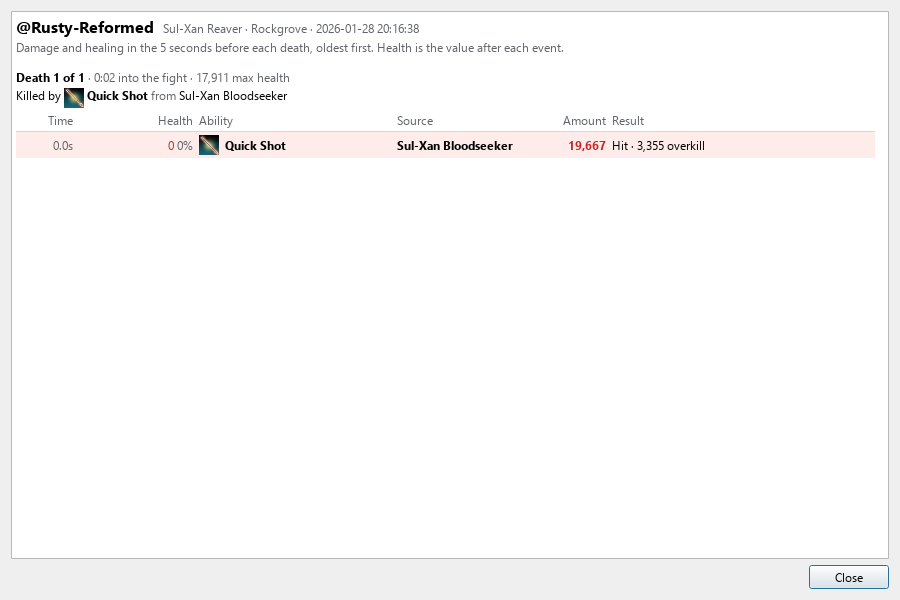
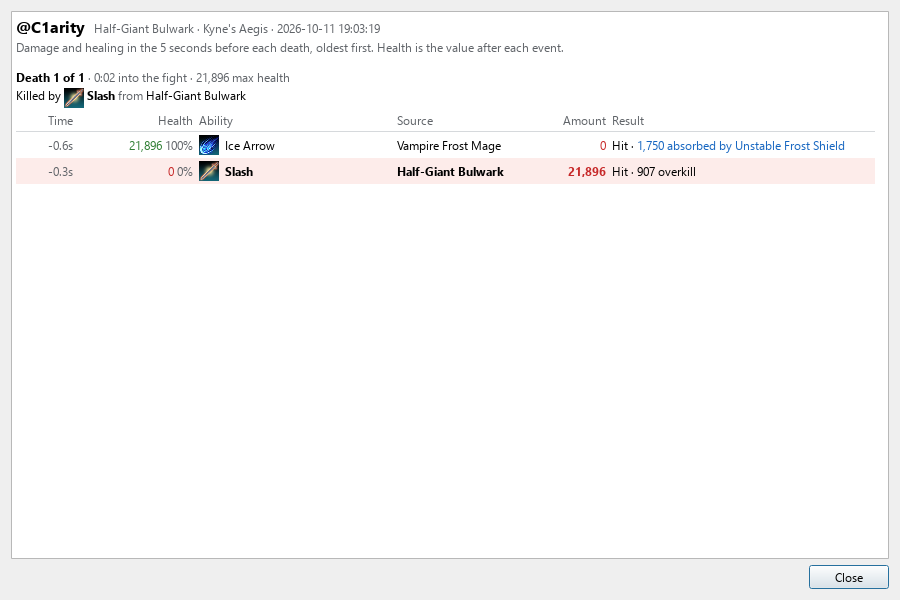
docs: critical review after #13, #21 and #27, and fresh screenshots
- README: a feature line for the damage window, DPS graph and dps time
  (#21); the tracked-effects line names expected rules and Z'en's count;
  the "DPS differs" entry no longer claims overkill as a difference
  (Combat Metrics drops it too) and names the real ones.
- User guide: the contents list gains A player's damage and DPS over
  time; the rules section documents `expected` and `dots`, the upgrade of
  saved rules and the new defaults; the strip section says when an empty
  0% row appears; the dps-time explanation is no longer repeated twice;
  the troubleshooting entry for DPS is corrected, and the Set#123 entry
  no longer promises the next release.
- Development guide: examples_dialog in the module table, effect_rules'
  description brought up to date.
- Screenshots regenerated over a Kyne's Aegis vet log with a Z'en wearer.

diff --git a/docs/user-guide.md b/docs/user-guide.md
@@ -5,6 +5,8 @@ A walk through the app, screen by screen, and the reference for every setting. T
 - [First run](#first-run)
 - [The main window](#the-main-window)
 - [A player's build](#a-players-build)
+- [A player's damage](#a-players-damage)
+- [DPS over time](#dps-over-time)
 - [Death recaps](#death-recaps)
 - [Tracked effects](#tracked-effects)
 - [The buff timeline](#the-buff-timeline)
@@ -37,14 +39,14 @@ The list on the left has one line per completed fight: `boss · duration · grou
 ### The fight
 
 - **Header**: boss or mob name, then duration, group DPS, zone, start time, and player deaths. In a fight with a boss the DPS reads `boss / total`: the damage dealt to the units the game flags as bosses, then all damage dealt. The duration is the fight time; when the group's dps time (first hit to last, what the DPS divides by) reads differently, it follows in brackets: `1:40 (dps time 1:32)`. Click the group DPS, or **DPS graph** on the toolbar, for the [dps over time graph](#dps-over-time).
-- **Buff timeline**: above the header, the [strip](#the-buff-timeline) with one row per effect across the fight, buffs above and debuffs below. A fresh install tracks how much of the fight Major Courage, Major Force, Major Slayer, Powerful Assault, Lucent Echoes and Pearlescent Ward were on anyone in the group; `Taunt:97%`, how long each boss had a taunt on it; six boss debuffs (Off-Balance, Touch of Z'en, Morag Tong, Minor Brittle, Major Brittle, Alkosh); and Crux, the mean and peak Crux you held. Every row is a [tracked-effect rule](#tracked-effects), on every fight whatever the group size. In a fight without a boss the boss rules measure the pack and say how many of its mobs they reached: `Alkosh:45% on 7 of 12 mobs`. **Copy fight** puts the same items on one text line.
+- **Buff timeline**: above the header, the [strip](#the-buff-timeline) with one row per effect across the fight, buffs above and debuffs below. A fresh install tracks how much of the fight Major Courage, Major Force, Major Slayer, Powerful Assault, Lucent Echoes and Pearlescent Ward were on anyone in the group; `Taunt:97%`, how long each boss had a taunt on it; six boss debuffs (Off-Balance, Touch of Z'en, Morag Tong, Minor Brittle, Major Brittle, Alkosh); and Crux, the mean and peak Crux you held. Each of these is a [tracked-effect rule](#tracked-effects) and has a row when its effect was up; the group buffs also show at `0%` in a group of five or more when nobody had them, and the taunt in any group. In a fight without a boss the boss rules measure the pack and say how many of its mobs they reached: `Alkosh:45% on 7 of 12 mobs`. **Copy fight** puts the same items on one text line.
 - **One row per player**, ranked by damage to the bosses and then by all damage (in a fight without a boss, by all damage):
   - the role letter, **T**ank, **H**ealer or **D**PS (see [Roles](#what-the-numbers-are-based-on));
   - the account name, with `*` after the player who dealt the fight's first damage;
   - the class. A build that borrows skill lines from another class shows those lines after a plus sign, `NB +Aedric +Grave`, read from the character's passives, so a line taken for its passives alone shows too. A pure-class build names its Class Mastery passives after a colon instead, `NB: An Eye for Exploitation, Above and Beyond`. A stock build shows just the class;
   - DPS and the share of the group's damage, each `boss / total` in a fight with a boss (against the units the game flags as bosses, then against everything), and max health, magicka and stamina with the largest pool in bold. Click a DPS figure for the player's [damage window](#a-players-damage); hover it for the time the figure divides by.
 
-DPS includes what a player's pets did: a Necromancer's Blastbones and Skeletal Archer, a Warden's bear, a Sorcerer's atronachs and familiar, a companion. Damage-over-time ticks count, as in Combat Metrics; see [Damage](#what-the-numbers-are-based-on). Each figure divides by its **dps time**, the time from the first of those hits to the last (a second at least) rather than the whole fight, which is also how Combat Metrics works: a player's DPS over the span of their own hits, their boss DPS over the span of their hits on the bosses, the group's over the span of the group's. The header shows the fight time and, when it reads differently, the group's dps time beside it: `1:40 (dps time 1:32)`.
+DPS includes what a player's pets did: a Necromancer's Blastbones and Skeletal Archer, a Warden's bear, a Sorcerer's atronachs and familiar, a companion. Damage-over-time ticks count, as in Combat Metrics; see [Damage](#what-the-numbers-are-based-on). Each figure divides by its **dps time**, the time from the first of those hits to the last (a second at least) rather than the whole fight, which is also how Combat Metrics works: a player's DPS over the span of their own hits, their boss DPS over the span of their hits on the bosses, the group's over the span of the group's.
 
 ### A player's row in detail
 
@@ -120,15 +122,15 @@ Heals that were pure overheal are left out. A death the game writes just after c
 Every row of the buff timeline is a rule in Settings → **Tracked effects**, one per line, the group buffs and the taunt included. The rules are plain text: copy them to a friend, or paste theirs in. A fresh install starts with these:
 
 ```
-Major Courage    = 109966 on group
-Major Force      = 61747 on group
-Major Slayer     = 93109 on group
-Powerful Assault = 61771 on group
-Lucent Echoes    = 220015 on group
-Pearlescent Ward = 172621 on group
-Taunt            = 38254 on boss each
+Major Courage    = 109966 on group expected large
+Major Force      = 61747 on group expected large
+Major Slayer     = 93109 on group expected large
+Powerful Assault = 61771 on group expected large
+Lucent Echoes    = 220015 on group expected large
+Pearlescent Ward = 172621 on group expected large
+Taunt            = 38254 on boss each expected small large
 Off-Balance   = 45902 62988 39077 34733 20806 130139 130145 130129 125750 62968 25256 34737 23808 137257 45834 137312 131562 on boss
-Touch of Z'en = 126597 on boss stacks
+Touch of Z'en = 126597 on boss dots
 Crux          = 184220 on self stacks
 Morag Tong    = 34384 on boss
 Minor Brittle = 145975 on boss
@@ -136,13 +138,17 @@ Major Brittle = 263825 on boss
 Alkosh        = 76667 on boss
 ```
 
-A rule is `Name = ability ids on <scope>`, then optionally `stacks` or `each`:
+A rule is `Name = ability ids on <scope>`, then optionally a measure (`stacks`, `each` or `dots`) and `expected <sizes>`, in any order:
 
-- **Ids**: a rule matches any of its ids, since an effect such as Off-Balance has one id per skill that applies it. They are the ids the game logs; an addon such as HyperTools or LuiExtended shows them. A rule for an id the log never writes reads 0%.
+- **Ids**: a rule matches any of its ids, since an effect such as Off-Balance has one id per skill that applies it. They are the ids the game logs; an addon such as HyperTools or LuiExtended shows them.
 - **Scope** says whose effects count: `self` is the player whose client writes the log, `group` any group member, `pets` a group member's pet, `boss` an enemy the game flags as a boss, `enemies` any hostile.
 - **Measure**: by default, the share of the fight the effect was on at least one unit of the scope, `Off-Balance:17%`. `stacks` gives the mean stack count while it was up and the peak, `Crux:2.1/3`. `each` measures every unit of the scope separately, over the time that unit was alive in the fight, and shows the mean. That is the taunt's measure: a fight with two bosses averages them, and a boss killed early is measured to its death.
+- **`dots`** is for Touch of Z'en, whose stacks the game never writes to the log: while a wearer's Z'en is on the boss, it counts that wearer's damage-over-time effects on it, at most five, and shows the mean and peak, `Touch of Z'en:4.3/5`. This is how Combat Metrics counts it. An effect counts when the log shows it ticking as damage over time, so Burning, Poisoned, bleeds and set DoTs count, a ground area such as Stampede does not, and 0 means Z'en was up with no bonus.
+- **When a rule shows**: a rule's row, and its item in the copied text, shows whenever its effect was up in the fight. `expected` makes it show at `0%` even when the effect never came, in the group sizes you name: `solo` (one player), `small` (two to four), `large` (five or more), or `all`; `expected` alone means all. The defaults expect the six group buffs in a large group and the taunt in small and large groups, so a missing Major Courage in a trial stands out, while a dungeon run is not a column of zeros. The boss debuffs show when someone applied them.
 - **Trash packs**: in a fight without a boss, a `boss` rule measures every hostile the group fought instead, and both it and an `enemies` rule say how many of the pack's mobs the effect reached: `Alkosh:45% on 7 of 12 mobs`. In a boss fight nothing changes.
-- **HyperTools**: a line that starts with `$` is a tracker exported from the [HyperTools](https://github.com/Hyperioxes/HyperTools) addon, pasted as is. Its name, ability ids and target become a rule; `stacks` or `on boss` after the string override it.
+- **HyperTools**: a line that starts with `$` is a tracker exported from the [HyperTools](https://github.com/Hyperioxes/HyperTools) addon, pasted as is. Its name, ability ids and target become a rule; `stacks`, `on boss` or `expected <sizes>` after the string apply to it.
+
+Rules saved by an earlier version are brought up to date once, when the app starts: the seven default group-buff and taunt lines get their `expected` words, and a `Touch of Z'en … stacks` line becomes `dots`. A line you renamed, or gave your own `expected`, is left as you wrote it.
 
 Delete the lines you do not want and rename the rest as you like (`MCourage` if you prefer the short form). The box tells you how many rules it holds and which lines it cannot read. **Examples…** opens a list of example rules, each with what it tells you and its line, the default rules first: tick the ones you want and **Add to rules** puts them under yours, or **Copy** puts the ticked lines on the clipboard to share. A rule you already have starts unticked.
 
@@ -154,9 +160,9 @@ Saving restarts monitoring, so new rules apply to the session's fights at once.
 
 A compact strip above each fight shows every tracked effect across the fight's length (see the [main window picture](#the-main-window)).
 
-- **Rows**: the strip's built-in rows, Major Slayer, Major Force, Major Courage, Major Berserk, Powerful Assault, Major Vulnerability and Taunt, then one row for each of your [tracked-effect rules](#tracked-effects) (a rule with the same name as a built-in row does not get a second one). Major Berserk and Major Vulnerability are built-in rows only; they are not in the copied text line. A row for an effect that never occurred is left out, and the strip disappears when there is nothing to show.
+- **Rows**: the strip's built-in rows, Major Slayer, Major Force, Major Courage, Major Berserk, Powerful Assault, Major Vulnerability and Taunt, then one row for each of your [tracked-effect rules](#tracked-effects) (a rule with the same name as a built-in row does not get a second one). Major Berserk and Major Vulnerability are built-in rows only; they are not in the copied text line. A rule whose effect never occurred has a row only when it is [expected](#tracked-effects) in a group of that size, an empty one reading `0%`; otherwise it is left out, and the strip disappears when there is nothing to show.
 - **Buffs above, debuffs below**: rows whose effect is on your side (`group`, `self`, `pets`) come first, then the rows on the enemy (`boss`, `enemies`, `mobs`), with a thin line between the two. Each side keeps the order its rows come in: built-in rows first, then your rules in the order you wrote them.
-- **Each row** is filled where the effect was up, with its uptime in the label and time ticks underneath. Beside the label a word says whose effect it is: `group`, `boss` for Major Vulnerability and the taunt, and each rule's scope (`self`, `pets`, `enemies`, or `mobs` for a boss rule measured on the pack of a fight without a boss). A stacking rule's bar rises and falls with the count. A group buff that reached only one or two people is dotted rather than solid.
+- **Each row** is filled where the effect was up, with its uptime in the label and time ticks underneath. Beside the label a word says whose effect it is: `group`, `boss` for Major Vulnerability and the taunt, and each rule's scope (`self`, `pets`, `enemies`, or `mobs` for a boss rule measured on the pack of a fight without a boss). A stacking rule's bar rises and falls with the count, and Touch of Z'en's against its five DoTs. A group buff that reached only one or two people is dotted rather than solid.
 - **Hover** a segment for who cast it and who received it at that moment. Hover a label for its full text when it is cut short.
 - **Click** a row, label or bar, for a summary of the whole fight: who applied the effect (each caster's uptime, how much of it no other caster covered, and how many spans), who had it (each receiver's uptime, and for a stacking rule its peak and the time at the peak), and, when there are only a few of each, a grid of caster against receiver. A click elsewhere or Esc closes it.
 
@@ -216,7 +222,7 @@ The [design notes](design.md), collected from the code itself, go into each of t
 - **Builds**: `PLAYER_INFO` events carry each player's slotted abilities, gear and long-term effects. The class skill lines are read from the class passives among those effects, with the slotted abilities filling in for a line whose passives a character has not learned; a build has at most three lines. The same table names the Class Mastery passives: from the passive list for a mastery whose effect is always on, and from the effect a proc mastery fires (the player being its source) for the others, kept for the rest of the session.
 - **Werewolf form**: the game writes only a player's two human bars, never the bar a werewolf fights with. The app tells a player is in werewolf form from the effects the game puts on them as they transform, and rebuilds their werewolf bar from the werewolf skills they cast in form; a Carnage counts as its Pounce, which it replaces at close range.
 - **Gear sets** are mapped through the [LibSets](https://github.com/Baertram/LibSets/tree/LibSets-reworked/LibSets) database. Each equipped item comes with its trait, quality and enchant. The log does not say how heavy an armor piece is or what a weapon is, so both are looked up by item id in tables from UESP's item database. A slotted poison is named the same way. Food is recognised by the buff list of the LibFoodDrinkBuff addon.
-- **Tracked effects**: every buff and debuff is an `EFFECT_CHANGED` line naming the ability, the caster, the target and the stack count. A rule's uptime is the union of its ids' spans over the units of its scope, and its stacks the highest count among them, averaged over the time it was up.
+- **Tracked effects**: every buff and debuff is an `EFFECT_CHANGED` line naming the ability, the caster, the target and the stack count. A rule's uptime is the union of its ids' spans over the units of its scope, and its stacks the highest count among them, averaged over the time it was up. The game never logs Touch of Z'en's stacks, so `dots` counts the wearer's effects that tick as damage over time, as Combat Metrics does. A rule shows when its effect was up, or when it is `expected` in the fight's group size, counted from the players in the fight.
 - **Scribed skills**: the log names a scribed skill's focus, signature and affix scripts on its `ABILITY_INFO` line, directly before the `PLAYER_INFO` of the player who uses it. That is how scripts are tied to players: the ability id alone covers several focus scripts of a grimoire, so two players with the same id can run different skills.
 - **Deaths**: player `DIED` events during the fight, and `KILLING_BLOW` events on a player, which is how the log records a player killed by another player. The recap comes from the `COMBAT_EVENT` lines that hit or healed that player in the 5 seconds before.
 - **Icons and links**: the log names each ability's icon file, and the app ships those icons extracted from the game. ESO-Hub links come from bundled maps of ESO-Hub's sitemaps; nothing is sent to ESO-Hub until you click.
@@ -238,8 +244,8 @@ The [design notes](design.md), collected from the code itself, go into each of t
 
 - **No fights appear**: logging is off in-game (see [First run](#first-run)); **Last entry** turns green while the log is being written. A fight appears only once combat ends.
 - **"Waiting for Encounter.log"**: logging has never been enabled, or the log lives somewhere unusual: point Settings → Encounter log at it.
-- **DPS differs from Combat Metrics or ESO Logs**: the app counts the same results Combat Metrics does, but leaves out overkill, and in a fight with a boss shows boss DPS first (`boss / total`). Compare like with like; see [Damage](#what-the-numbers-are-based-on). A fight the game split in two around a resurrection is one fight here.
-- **A set shows as `Set#123`**: the set is newer than the bundled set table; it will be named after the next release.
+- **DPS differs from Combat Metrics or ESO Logs**: a player's own figure counts the same hits over the same dps time as Combat Metrics, so it should agree. Check three things. In a fight with a boss, the first figure is boss DPS (`boss / total`). The group's DPS divides by the group's own first-to-last span, where Combat Metrics divides the group's damage by *your* dps time. And a fight the game split in two around a resurrection is one fight here. See [Damage](#what-the-numbers-are-based-on).
+- **A set shows as `Set#123`**: the set is newer than the bundled set table, so it has no name or link until the table is refreshed in a later release.
 - **An ability shows as text instead of an icon**: the icon is not in the bundled set; the name still links to ESO-Hub.
 - **A weapon's Type is a dash**: the weapon is from a set newer than the bundled weapon table.
 - **Archive was skipped**: ESO was running and had the log open. Close ESO and use **Archive now**, or let the next app start handle it.

diff --git a/README.md b/README.md
@@ -12,9 +12,10 @@ The **[user guide](https://github.com/brainsnorkel/eso-live-encounterlog-sets-ab
 - **Players ranked by boss damage, then all damage**, with role (Tank/Healer/DPS), class and borrowed skill lines or Class Mastery passives, boss DPS beside total DPS, damage share, and resource pools.
 - **Builds at a glance**: both ability bars as the game's own icons, scribed skills with their scripts (`Chilling Contingency (Lingering Torment / Intellect and Endurance)`), and every equipped gear set with piece counts.
 - **Full build per player**: click a name for gear slot by slot (set, type, quality, trait, enchant, slotted poison), both bars, mundus stone, food and Class Mastery passives.
+- **DPS the way Combat Metrics counts it**: each figure over its dps time (first hit to last); click a player's DPS for their damage by ability and by target, or the group's for a graph of everyone's dps across the fight.
 - **Death recaps**: a ☠ on the row of a player who died opens the last 5 seconds before each death: every hit and heal with its source, the health left after it, and whether it was blocked, dodged or absorbed by a shield.
 - **Buff and debuff timeline**: a strip across each fight, buffs above and debuffs below, one row per effect with its uptime. Hover for who cast what on whom; click a row for each caster's and receiver's share of the fight.
-- **Tracked effects you define**: the strip's rows are plain-text rules, `Off-Balance = 45902 62988 on boss`. They start with the group buffs, the taunt on the boss and six boss debuffs; edit them, add any effect the log carries, share the rules as text, paste HyperTools trackers, or pick from the Examples list. In a trash pack, boss rules measure the pack.
+- **Tracked effects you define**: the strip's rows are plain-text rules, `Off-Balance = 45902 62988 on boss`. They start with the group buffs, the taunt on the boss and six boss debuffs, Touch of Z'en's stacks among them, counted as Combat Metrics counts them. A rule shows when its effect was up, or at `0%` in the group sizes you say it is expected in, so a missing buff stands out in a trial without a dungeon run filling with zeros. Edit them, add any effect the log carries, share the rules as text, paste HyperTools trackers, or pick from the Examples list. In a trash pack, boss rules measure the pack.
 - **Taunts**: how long each boss had a taunt on it, and the abilities each player taunted with ringed on their bars.
 - **ESO-Hub links**: hover an ability icon for its name, click it for the skill's ESO-Hub page; set names open their set pages. Nothing is sent to ESO-Hub until you click.
 - **Search within a fight** (Ctrl+F), including ability icons by name; **copy any fight** as plain text for Discord; **review any log file** without interrupting live monitoring.
@@ -72,7 +73,7 @@ Then start ESO Log Tail, before or during play. The status bar's **Last entry** 
 - **SmartScreen warning on the installer**: the installer is not code-signed; choose *More info → Run anyway*.
 - **No fights appear**: make sure encounter logging is on in-game (**Last entry** turns green while the log is written). A fight appears once combat ends.
 - **"Waiting for Encounter.log"**: logging has never been enabled, or your log lives somewhere unusual: point Settings → Encounter log at it.
-- **DPS differs from Combat Metrics or ESO Logs**: the app counts the same results, leaves out overkill, and in a boss fight shows boss DPS first. See [what the numbers are based on](https://github.com/brainsnorkel/eso-live-encounterlog-sets-abilities/blob/main/docs/user-guide.md#what-the-numbers-are-based-on).
+- **DPS differs from Combat Metrics or ESO Logs**: a player's figure counts the same hits over the same dps time as Combat Metrics. In a boss fight the first figure is boss DPS, and the group's DPS uses the group's own span rather than yours. See [when something looks wrong](https://github.com/brainsnorkel/eso-live-encounterlog-sets-abilities/blob/main/docs/user-guide.md#when-something-looks-wrong).
 - **The app closed unexpectedly**: unhandled errors are written to `%LOCALAPPDATA%\esolog-tail\crash.log` (`~/.config/esolog-tail/crash.log` on Linux); please attach it to a [bug report](https://github.com/brainsnorkel/eso-live-encounterlog-sets-abilities/issues).
 - **Linux: the app does not start**: run `./esolog-gui` from a terminal to see Qt's message, and include it in a bug report with your distribution and whether the desktop is X11 or Wayland.
 

diff --git a/docs/development.md b/docs/development.md
@@ -34,7 +34,7 @@ The engine knows nothing about Qt. It reads log lines, tracks the fight, and rep
 | `app_config.py` | The per-user `config.json`. |
 | `player_build.py`, `scribing.py`, `death_recap.py`, `buff_timeline.py` | Per-fight detail: gear, mundus and food; scribed skills; death recaps; the buff timeline's built-in rows. |
 | `werewolf.py` | Werewolf form: the bar the log never writes, rebuilt from the skills cast in form, the share of a fight spent in form, and the morph a Rampage in a bar stands in for. |
-| `effect_rules.py` | Tracked effects: the rule text format, the HyperTools import, the default and example rules, and `EffectTracker`, which measures each rule per fight. |
+| `effect_rules.py` | Tracked effects: the rule text format (scopes, measures, `expected` group sizes), the HyperTools import, the default and example rules, the once-only upgrade of a saved rules text, and `EffectTracker`, which measures each rule per fight, Touch of Z'en's DoT count included. |
 | `effect_summary.py` | Who applied an effect and who had it over a fight, for the timeline strip's click popup. |
 | `eso_sets.py` | Skill line tables and the class passive data (`data/skills/class_passives.json`), for the skill lines and Class Mastery passives shown beside a class. |
 | `gear_set_database.py`, `gear_set_data.py` | Gear set lookups. `gear_set_data.py` is generated; do not edit it. |
@@ -43,7 +43,7 @@ The engine knows nothing about Qt. It reads log lines, tracks the fight, and rep
 | `update_check.py`, `autostart.py` | The GitHub release check; the start-at-login toggle. |
 | `version.py` | The version number. The only place it is defined. |
 | `gui/engine_worker.py` | Runs the engine on a `QThread` and turns listener callbacks into Qt signals. |
-| `gui/main_window.py`, `gui/fight_view.py`, `gui/settings_dialog.py`, `gui/about.py` | The main window and its dialogs. |
+| `gui/main_window.py`, `gui/fight_view.py`, `gui/settings_dialog.py`, `gui/examples_dialog.py`, `gui/about.py` | The main window and its dialogs, the example tracked-effect rules picker among them. |
 | `gui/fight_render.py`, `gui/build_render.py`, `gui/damage_render.py`, `gui/death_render.py` | HTML and plain text for a fight, a build, a player's damage and a death recap. They take fight data and return strings, so they are tested without a window. |
 | `gui/build_dialog.py`, `gui/damage_dialog.py`, `gui/death_recap_dialog.py`, `gui/dps_graph.py`, `gui/timeline_strip.py`, `gui/icon_cache.py` | The build, damage and death recap windows, the dps over time graph, the buff timeline strip, the icon cache. |
 
